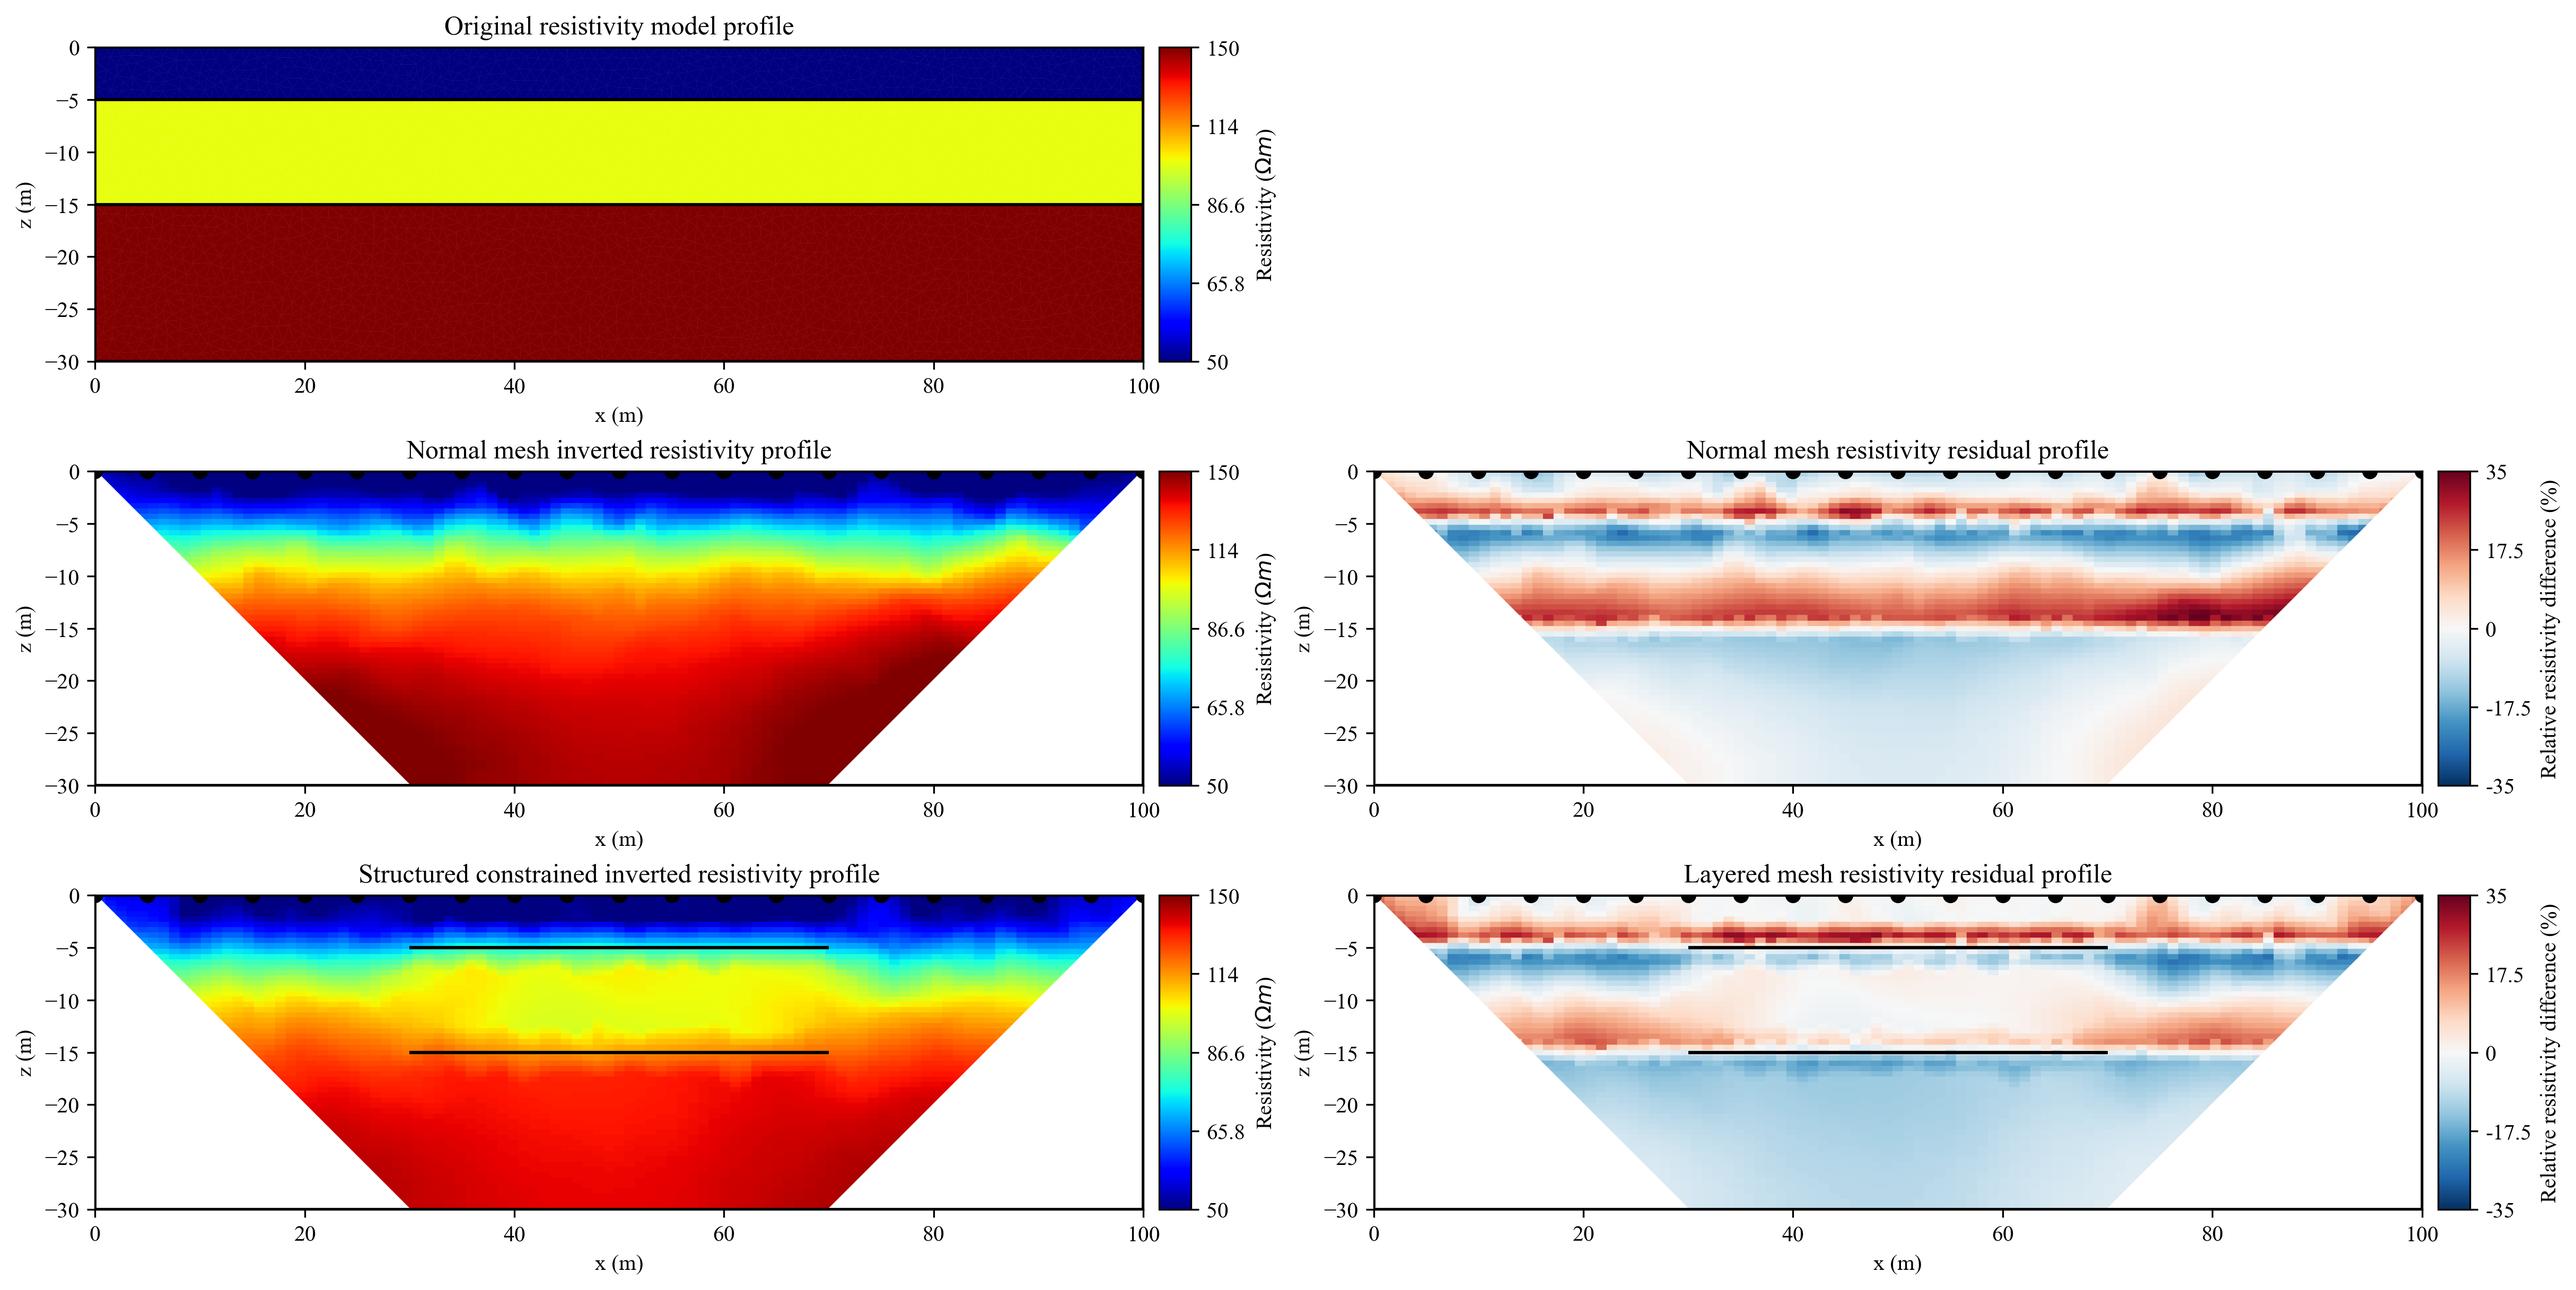
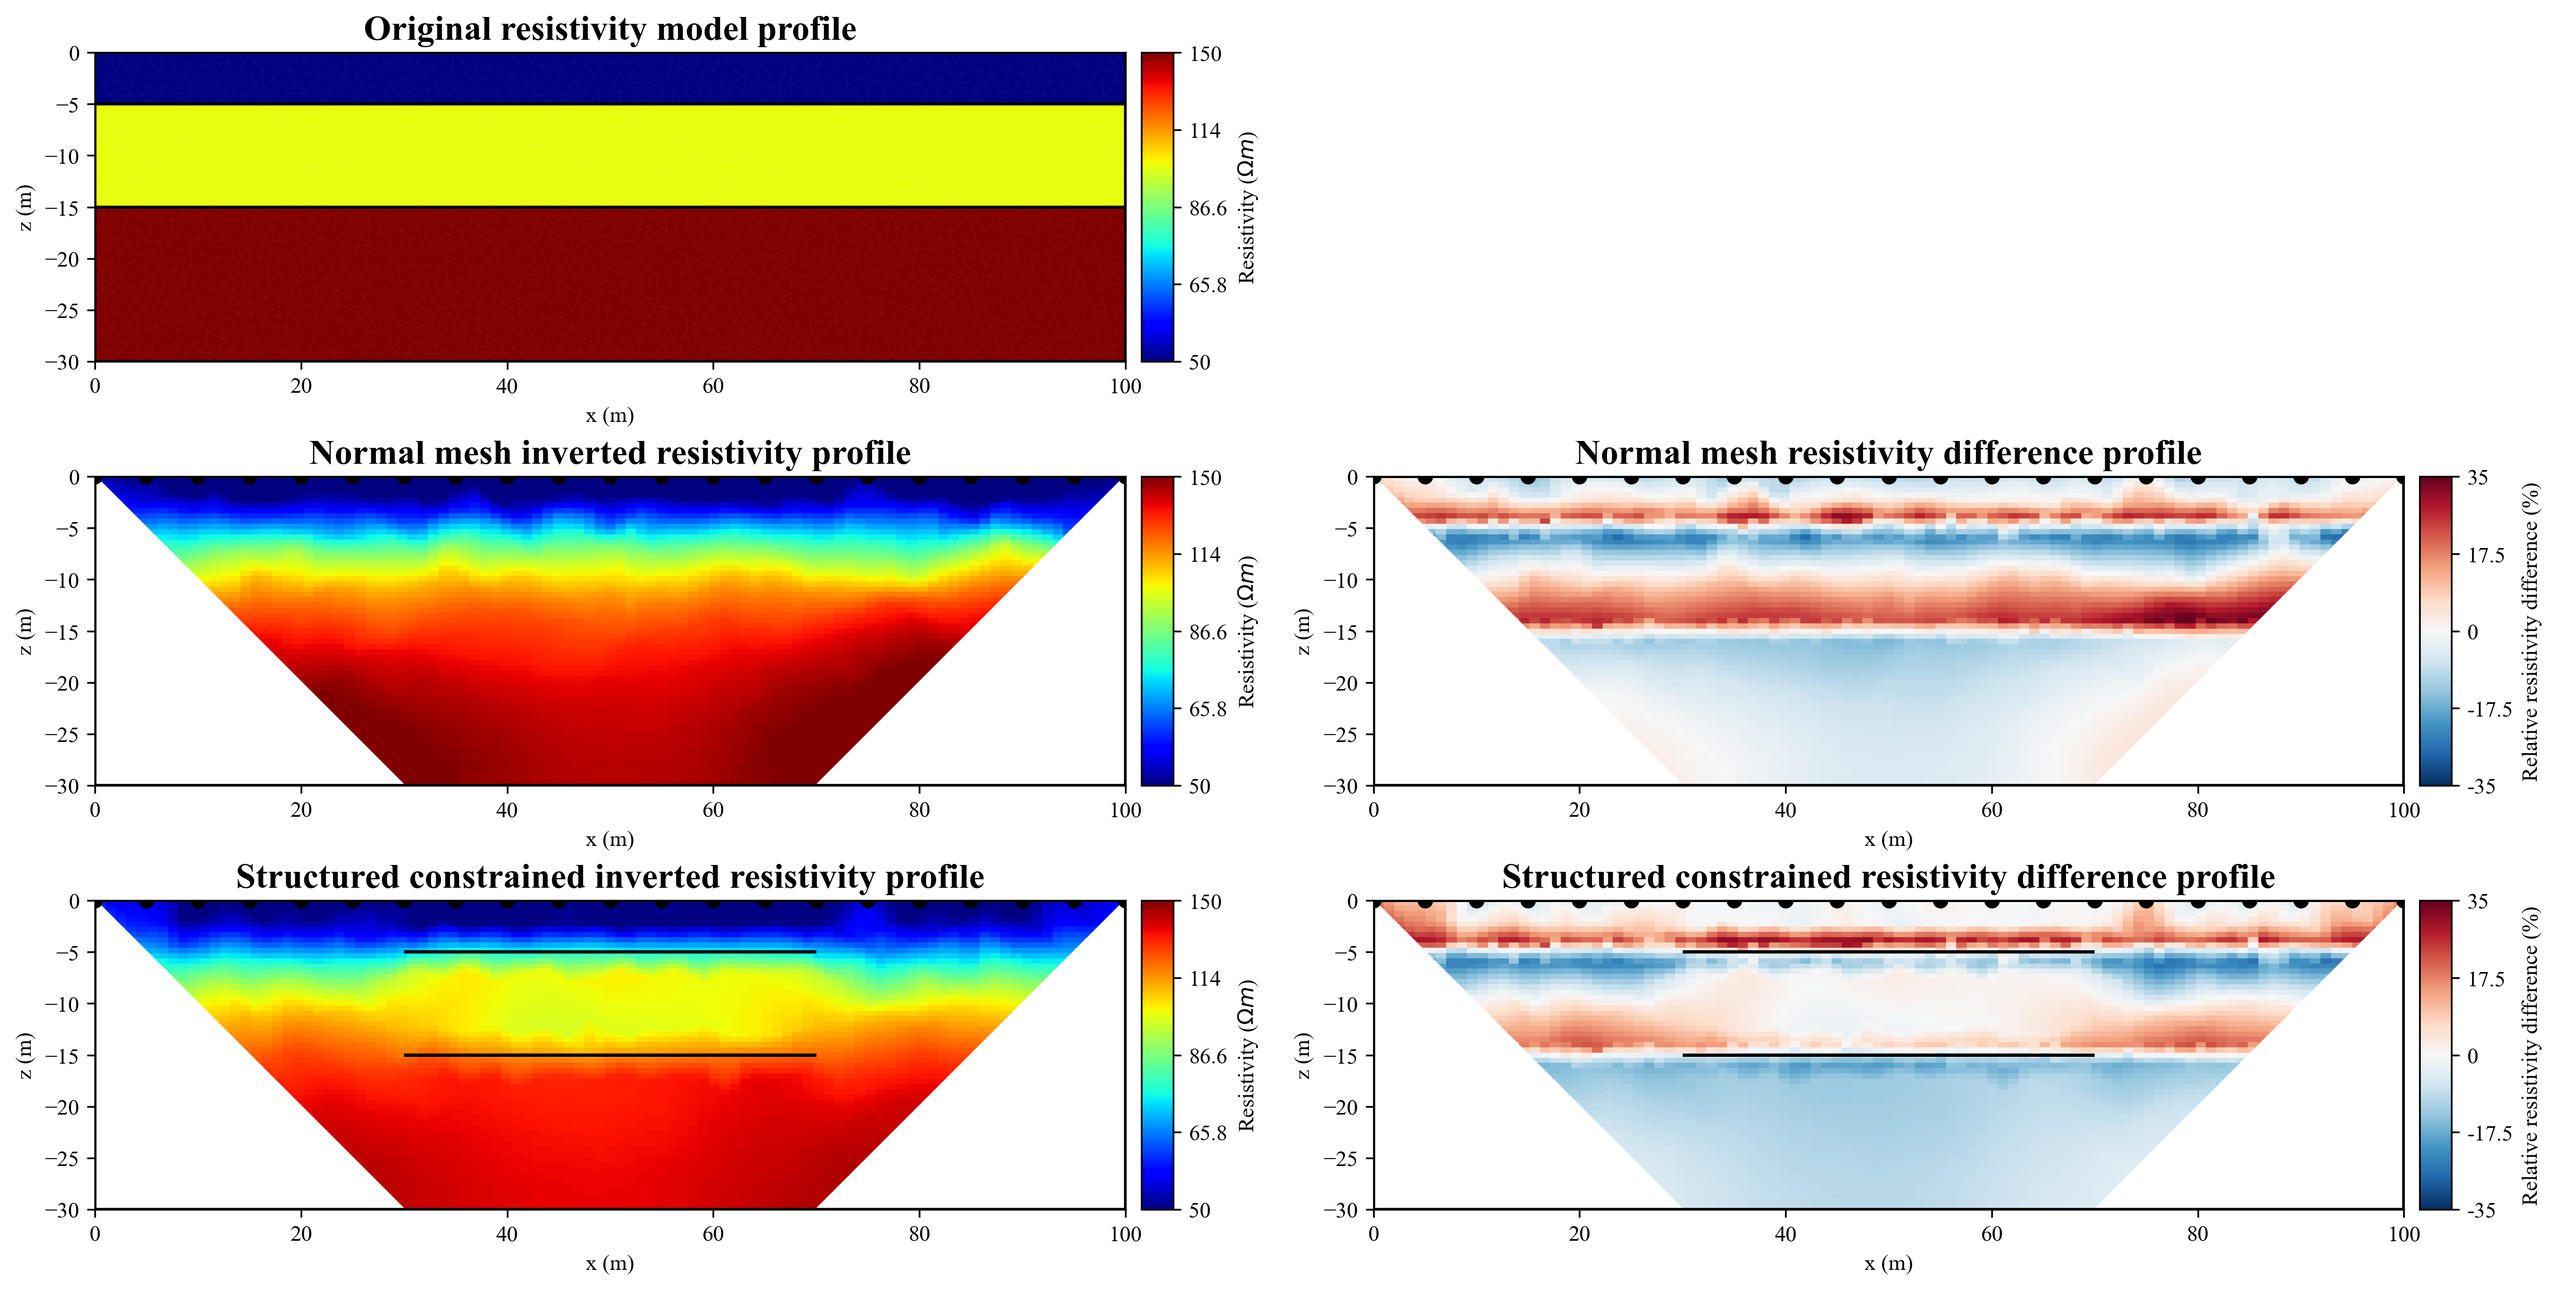
plot electrode position

diff --git a/synthetic_test/synthetic_slope.py b/synthetic_test/synthetic_slope.py
@@ -138,6 +138,7 @@ white_polygon = np.array([[0, 80], [0.0, 110], [30, 80], [100, 100],
                           [c1.node(12).pos()[0], c1.node(12).pos()[1]], 
                           [c1.node(12).pos()[0], 80],[0, 80]])
 ax3.add_patch(plt.Polygon(white_polygon,color='white'))
+ax3.plot(electrode_x, electrode_y, 'ko', markersize=2)
 
 # Subplot 5:structured constrained grid 
 rho_layer_grid = pg.interpolate(mgr3.paraDomain, mgr3.model, grid.cellCenters())
@@ -149,6 +150,7 @@ ax5.set_title('Structured constrained inverted resistivity profile',fontweight="
 ax5.plot([0.0, c1.node(12).pos()[0]],[110, c1.node(12).pos()[1]],linewidth=1,color='k')
 # cut inversion domain and turn white outside
 ax5.add_patch(plt.Polygon(white_polygon,color='white'))
+ax5.plot(electrode_x, electrode_y, 'ko', markersize=2)
 pg.show(c2,ax=ax5,linewidth=3)
 
 # Calculate the resistivity relative difference
@@ -160,9 +162,10 @@ pg.viewer.showMesh(grid,data=residual_normal_grid,ax=ax4,
                     cMap='RdBu_r', 
                      cMin=-50,cMax=50,
                     xlabel="x (m)", ylabel="z (m)",orientation = 'vertical')
-ax4.set_title('Normal mesh resistivity residual profile',fontweight="bold", size=16)
+ax4.set_title('Normal mesh resistivity difference profile',fontweight="bold", size=16)
 ax4.add_patch(plt.Polygon(white_polygon,color='white'))
 ax4.plot([0.0, c1.node(12).pos()[0]],[110, c1.node(12).pos()[1]],linewidth=1,color='k')
+ax4.plot(electrode_x, electrode_y,'ko',markersize=2)
 
 # Subplot 6:Layered mesh resistivity residual
 residual_layer_grid = ((rho_layer_grid - rho_grid)/rho_grid)*100
@@ -173,7 +176,11 @@ pg.viewer.showMesh(grid,data=residual_layer_grid,ax=ax6,
                     cMin=-50,cMax=50,
                     xlabel="x (m)", ylabel="z (m)",orientation = 'vertical',
                     )
-ax6.set_title('Structured constrained resistivity residual profile',fontweight="bold", size=16)
+ax6.set_title('Structured constrained resistivity difference profile',fontweight="bold", size=16)
 ax6.add_patch(plt.Polygon(white_polygon,color='white'))
 ax6.plot([0.0, c1.node(12).pos()[0]],[110, c1.node(12).pos()[1]],linewidth=1,color='k')
+ax6.plot(electrode_x, electrode_y,'ko',markersize=2)
 pg.show(c2,ax=ax6)
+
+# %%
+fig.savefig('slope_compare.png', dpi=300, bbox_inches='tight')

diff --git a/synthetic_test/synthetic.py b/synthetic_test/synthetic.py
@@ -181,7 +181,7 @@ pg.viewer.showMesh(grid,data=residual_normal_grid,ax=ax4,
                     cMap='RdBu_r', 
                     cMin=-35,cMax=35,
                     xlabel="x (m)", ylabel="z (m)",orientation = 'vertical')
-ax4.set_title('Normal mesh resistivity residual profile',fontweight="bold", size=16)
+ax4.set_title('Normal mesh resistivity difference profile',fontweight="bold", size=16)
 ax4.add_patch(plt.Polygon(triangle_left,color='white'))
 ax4.add_patch(plt.Polygon(triangle_right,color='white'))
 ax4.plot(np.array(pg.x(data)), np.array(pg.z(data)),'ko')
@@ -196,7 +196,7 @@ pg.viewer.showMesh(grid,data=residual_layer_grid,ax=ax6,
                     cMin=-35,cMax=35,
                     xlabel="x (m)", ylabel="z (m)",orientation = 'vertical',
                     )
-ax6.set_title('Structured constrained resistivity residual profile',fontweight="bold", size=16)
+ax6.set_title('Structured constrained resistivity difference profile',fontweight="bold", size=16)
 ax6.add_patch(plt.Polygon(triangle_left,color='white'))
 ax6.add_patch(plt.Polygon(triangle_right,color='white'))
 pg.show(interface1,ax=ax6)
